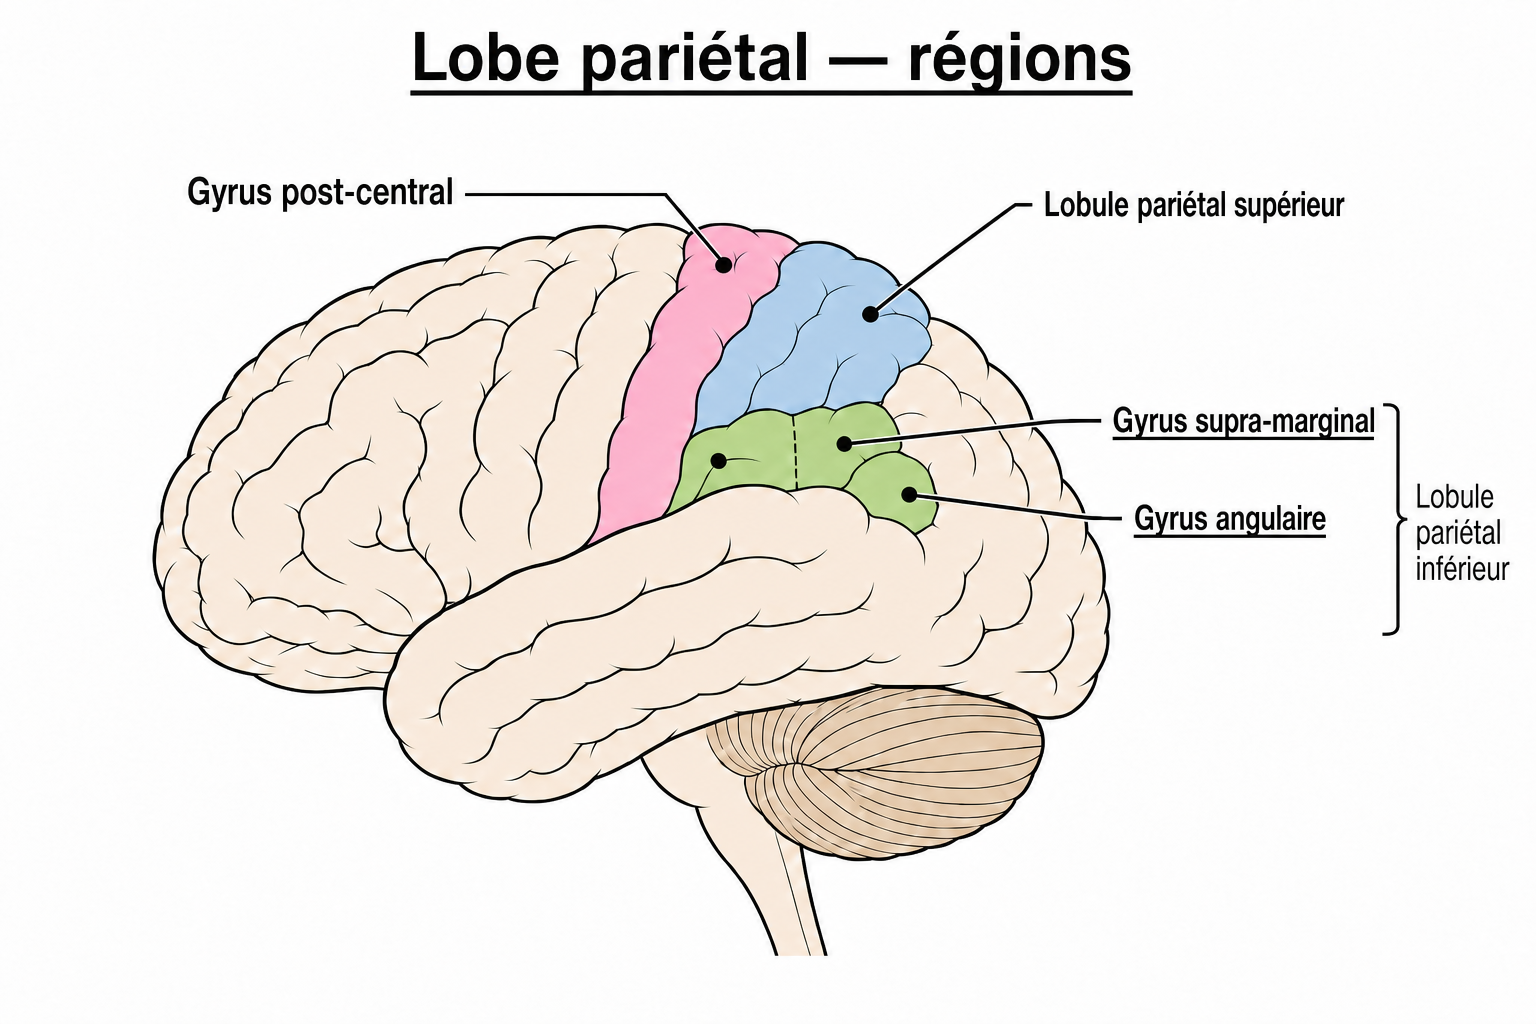
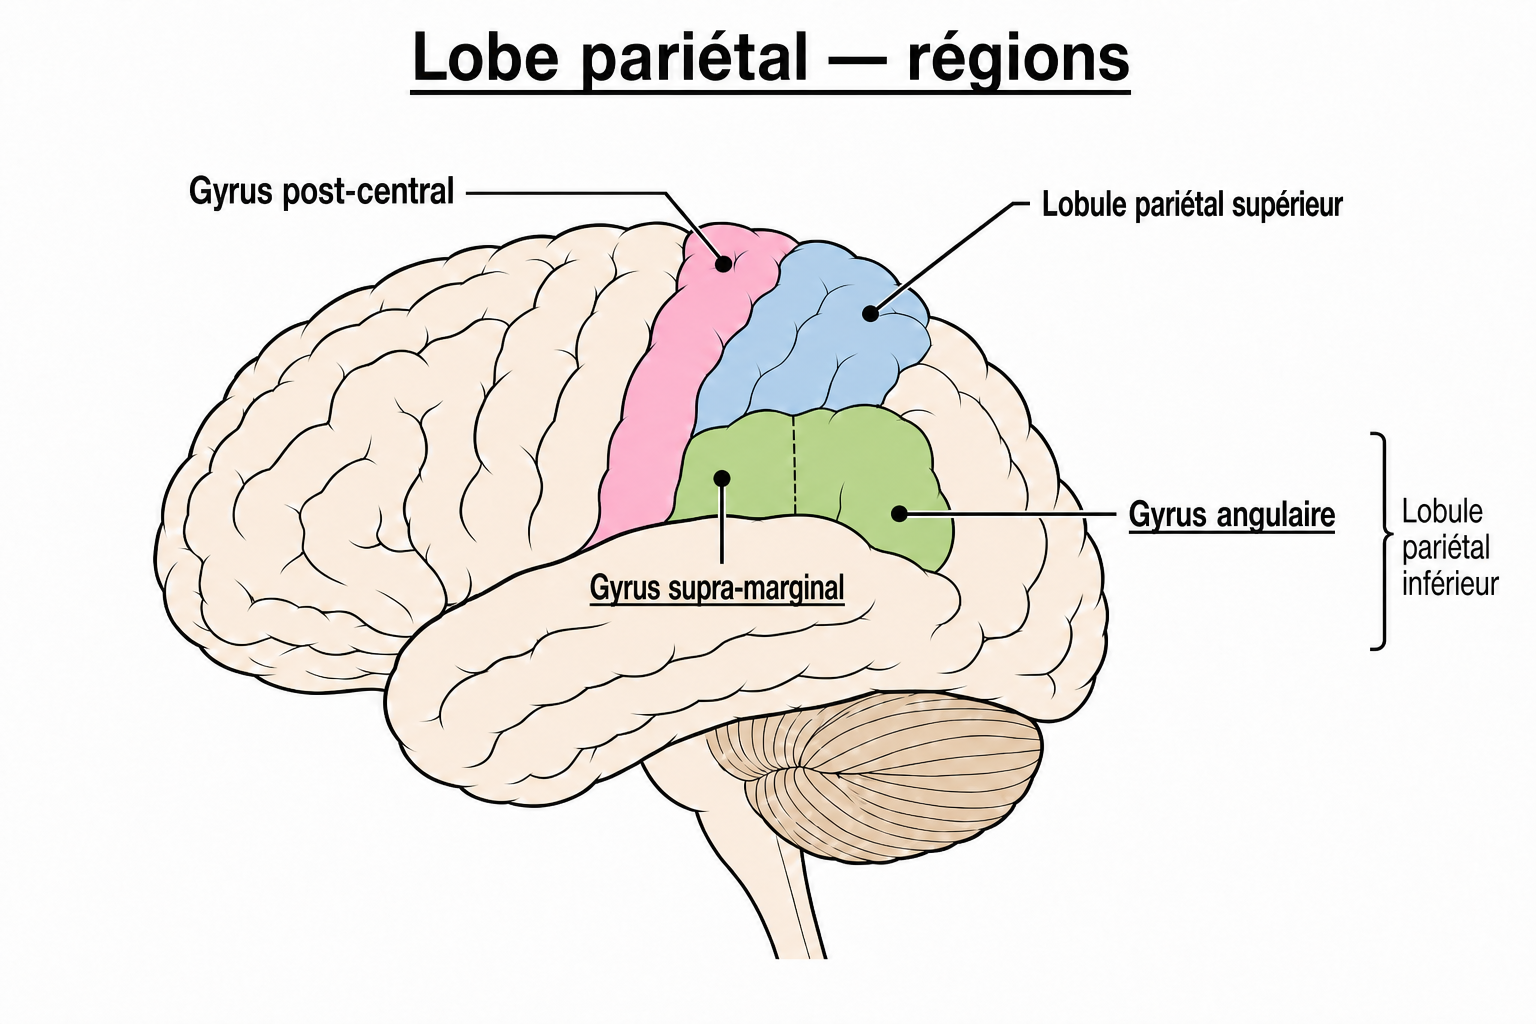
Fix ch02 parietal: supra-marginal left, angular right, no crossing labels.

diff --git a/data/flash/ch02.js b/data/flash/ch02.js
@@ -98,7 +98,7 @@
     { id: "FC-ANAT-02-S17", chapter: "02", priority: "P1", kind: "schema", front: "Schéma — Face médiale", back: "Face médiale", frontImg: "matiere/anatomie/img/ch02/blank/22_face_mediale.png?v=fc2k", backImg: "matiere/anatomie/img/ch02/22_face_mediale.png?v=fc2k" },
     { id: "FC-ANAT-02-S18", chapter: "02", priority: "P1", kind: "schema", front: "Schéma — Face inférieure", back: "Face inférieure", frontImg: "matiere/anatomie/img/ch02/blank/23_face_inferieure.png?v=fc2l", backImg: "matiere/anatomie/img/ch02/23_face_inferieure.png?v=fc2l" },
     { id: "FC-ANAT-02-S19", chapter: "02", priority: "P1", kind: "schema", front: "Schéma — Gyrus frontaux", back: "Gyrus frontaux", frontImg: "matiere/anatomie/img/ch02/blank/26_frontal_gyrus.png", backImg: "matiere/anatomie/img/ch02/26_frontal_gyrus.png" },
-    { id: "FC-ANAT-02-S20", chapter: "02", priority: "P1", kind: "schema", front: "Schéma — Régions pariétales", back: "Régions pariétales", frontImg: "matiere/anatomie/img/ch02/blank/28_parietal_regions.png?v=fc2n", backImg: "matiere/anatomie/img/ch02/28_parietal_regions.png?v=fc2n" },
+    { id: "FC-ANAT-02-S20", chapter: "02", priority: "P1", kind: "schema", front: "Schéma — Régions pariétales", back: "Régions pariétales", frontImg: "matiere/anatomie/img/ch02/blank/28_parietal_regions.png?v=fc2o", backImg: "matiere/anatomie/img/ch02/28_parietal_regions.png?v=fc2o" },
     { id: "FC-ANAT-02-S21", chapter: "02", priority: "P1", kind: "schema", front: "Schéma — Heschl et Wernicke", back: "Heschl et Wernicke", frontImg: "matiere/anatomie/img/ch02/blank/30_heschl_wernicke.png?v=fc2", backImg: "matiere/anatomie/img/ch02/30_heschl_wernicke.png?v=fc2" },
     { id: "FC-ANAT-02-S22", chapter: "02", priority: "P1", kind: "schema", front: "Schéma — Lobe occipital", back: "Lobe occipital", frontImg: "matiere/anatomie/img/ch02/blank/31_occipital.png?v=fc2g", backImg: "matiere/anatomie/img/ch02/31_occipital.png?v=fc2g" },
     { id: "FC-ANAT-02-S23", chapter: "02", priority: "P1", kind: "schema", front: "Schéma — Système limbique", back: "Système limbique", frontImg: "matiere/anatomie/img/ch02/blank/32_limbique.png", backImg: "matiere/anatomie/img/ch02/32_limbique.png" },

diff --git a/matiere/anatomie/ch02.html b/matiere/anatomie/ch02.html
@@ -421,7 +421,7 @@
       </div>
 
       <figure class="schema">
-        <img src="./img/ch02/28_parietal_regions.png?v=fc2n" alt="Régions pariétales" />
+        <img src="./img/ch02/28_parietal_regions.png?v=fc2o" alt="Régions pariétales" />
       </figure>
       <div class="label-quiz" data-labels='[["supra marginal","supra-marginal"],["angulaire"],["sillon post-central","post-central","post central"],["sillon intra-parietal","intra-parietal","intra parietal"],["pre-cuneus","precuneus","pre cuneus"],["gyrus cingulaire anterieur","cingulaire anterieur"],["gyrus cingulaire posterieur","cingulaire posterieur"]]'>
         <div class="course-cloze">
